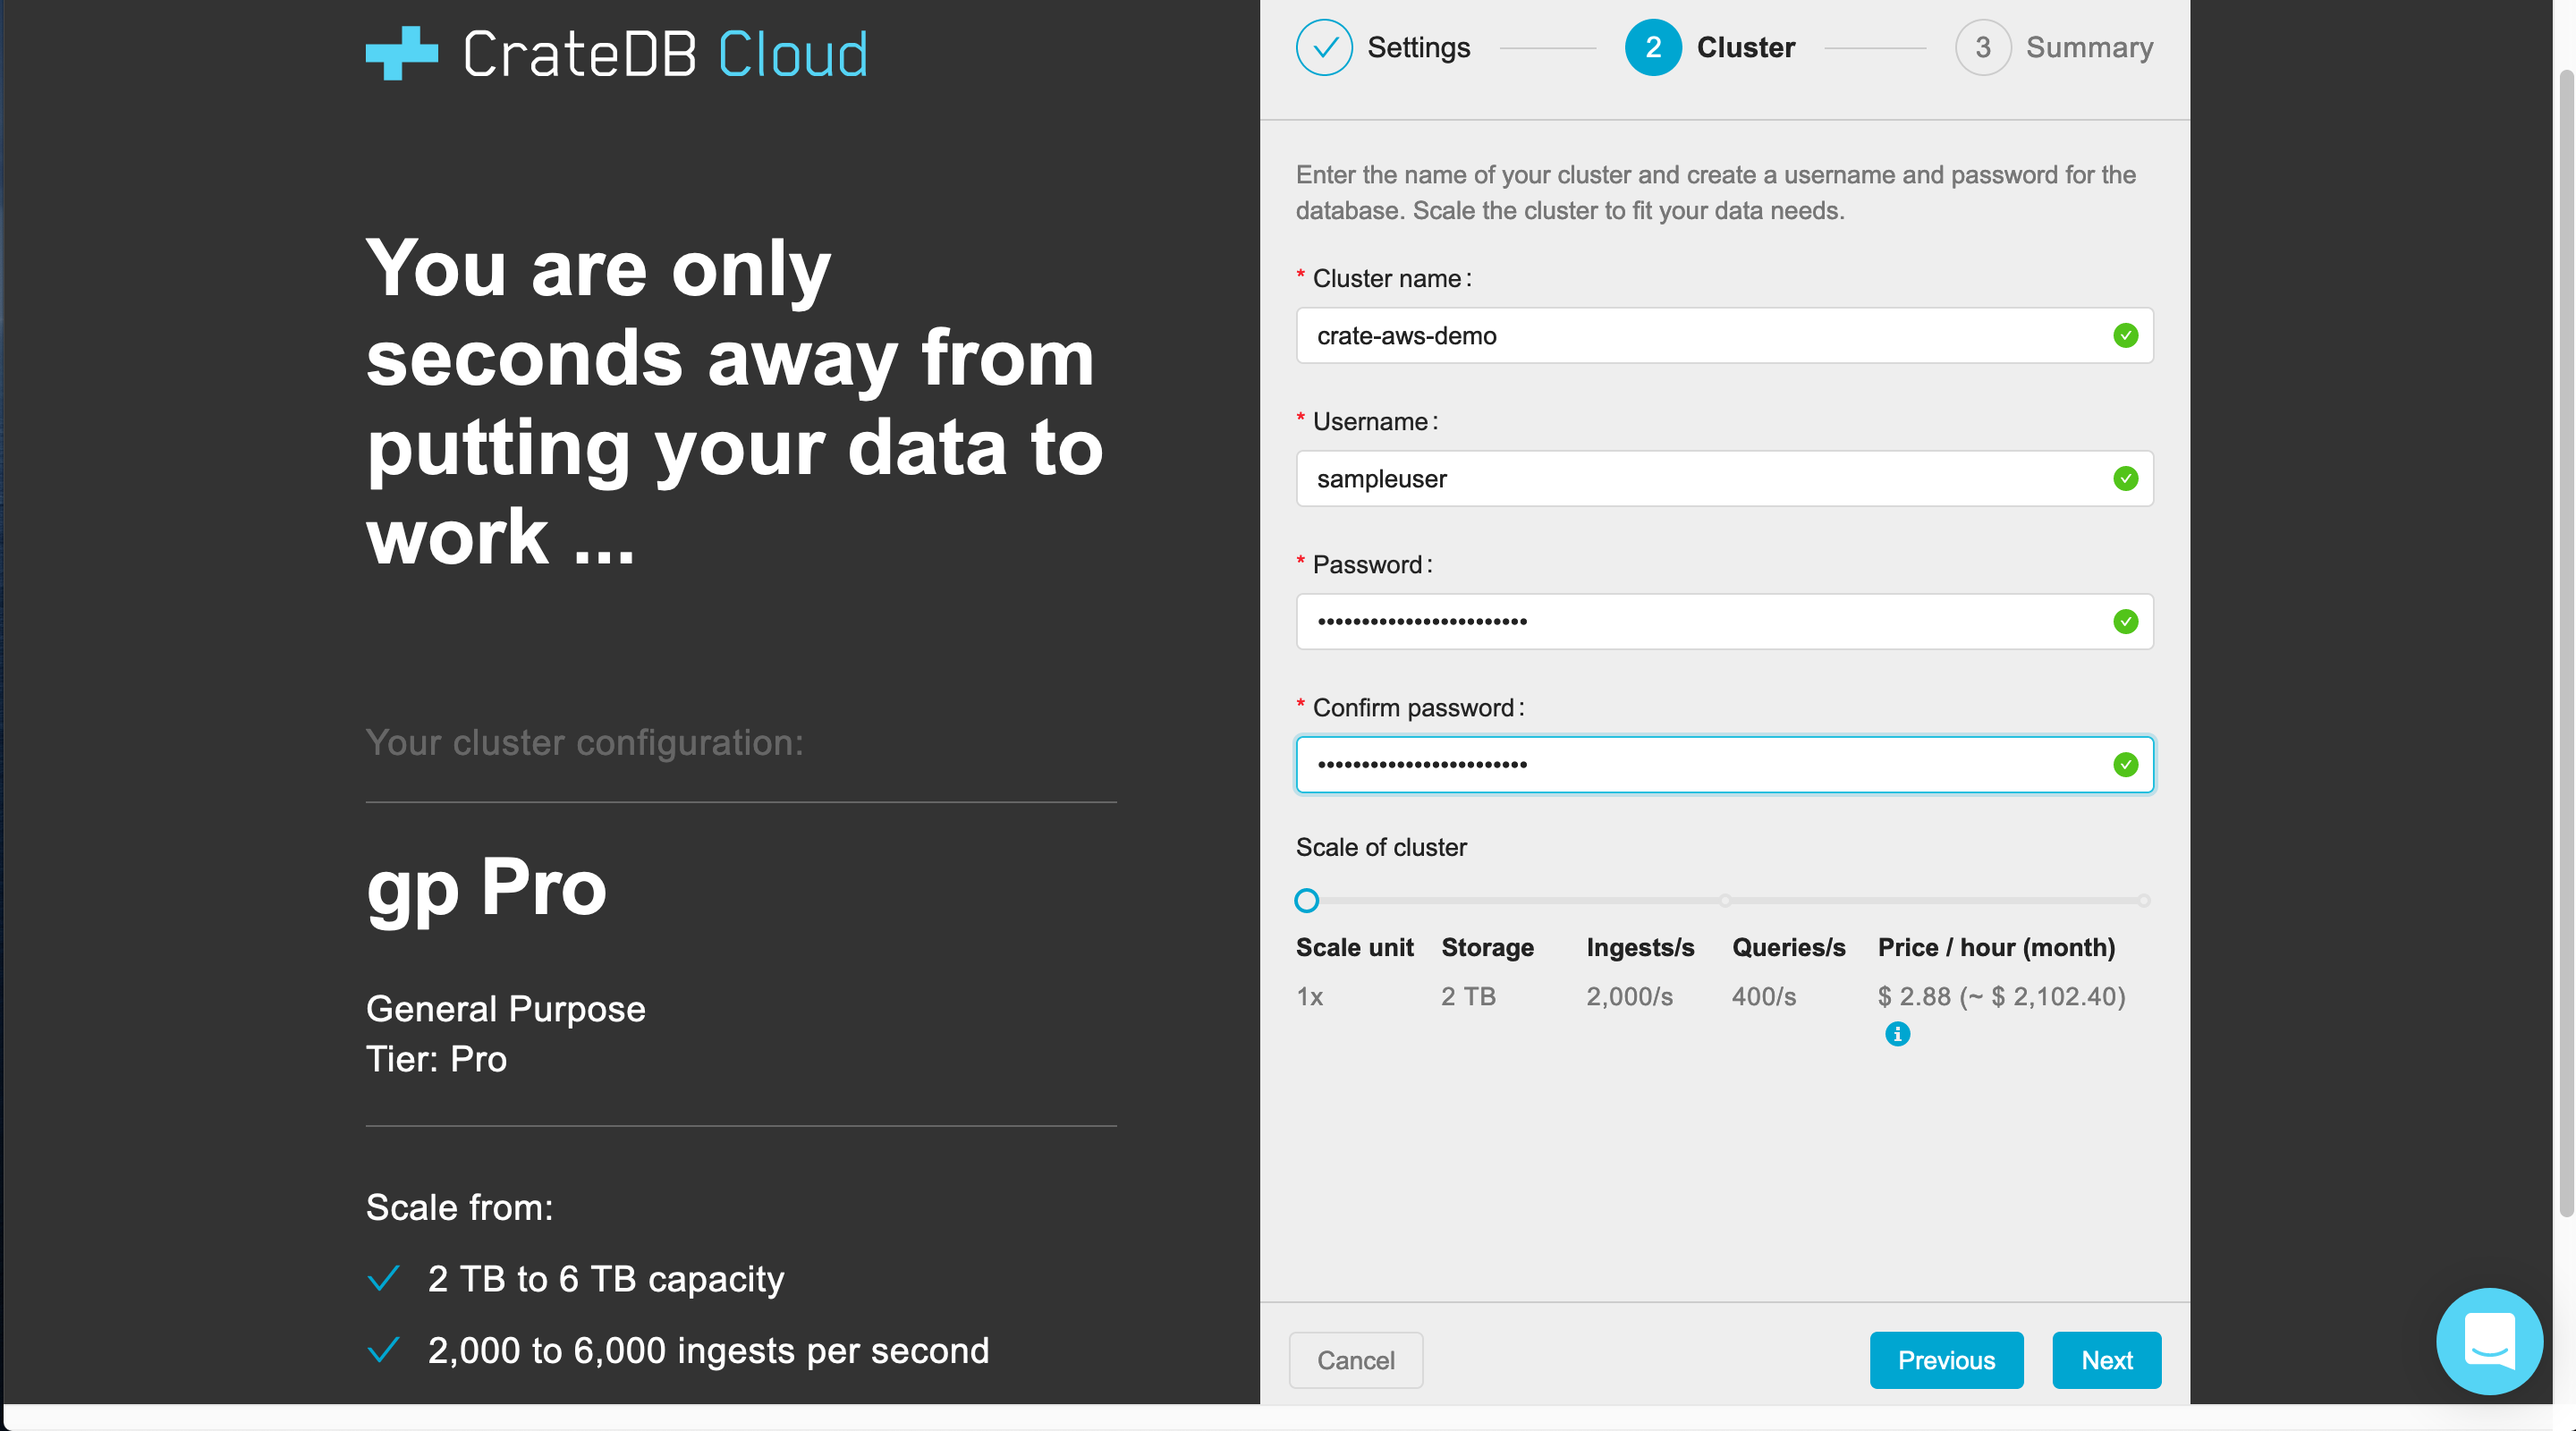
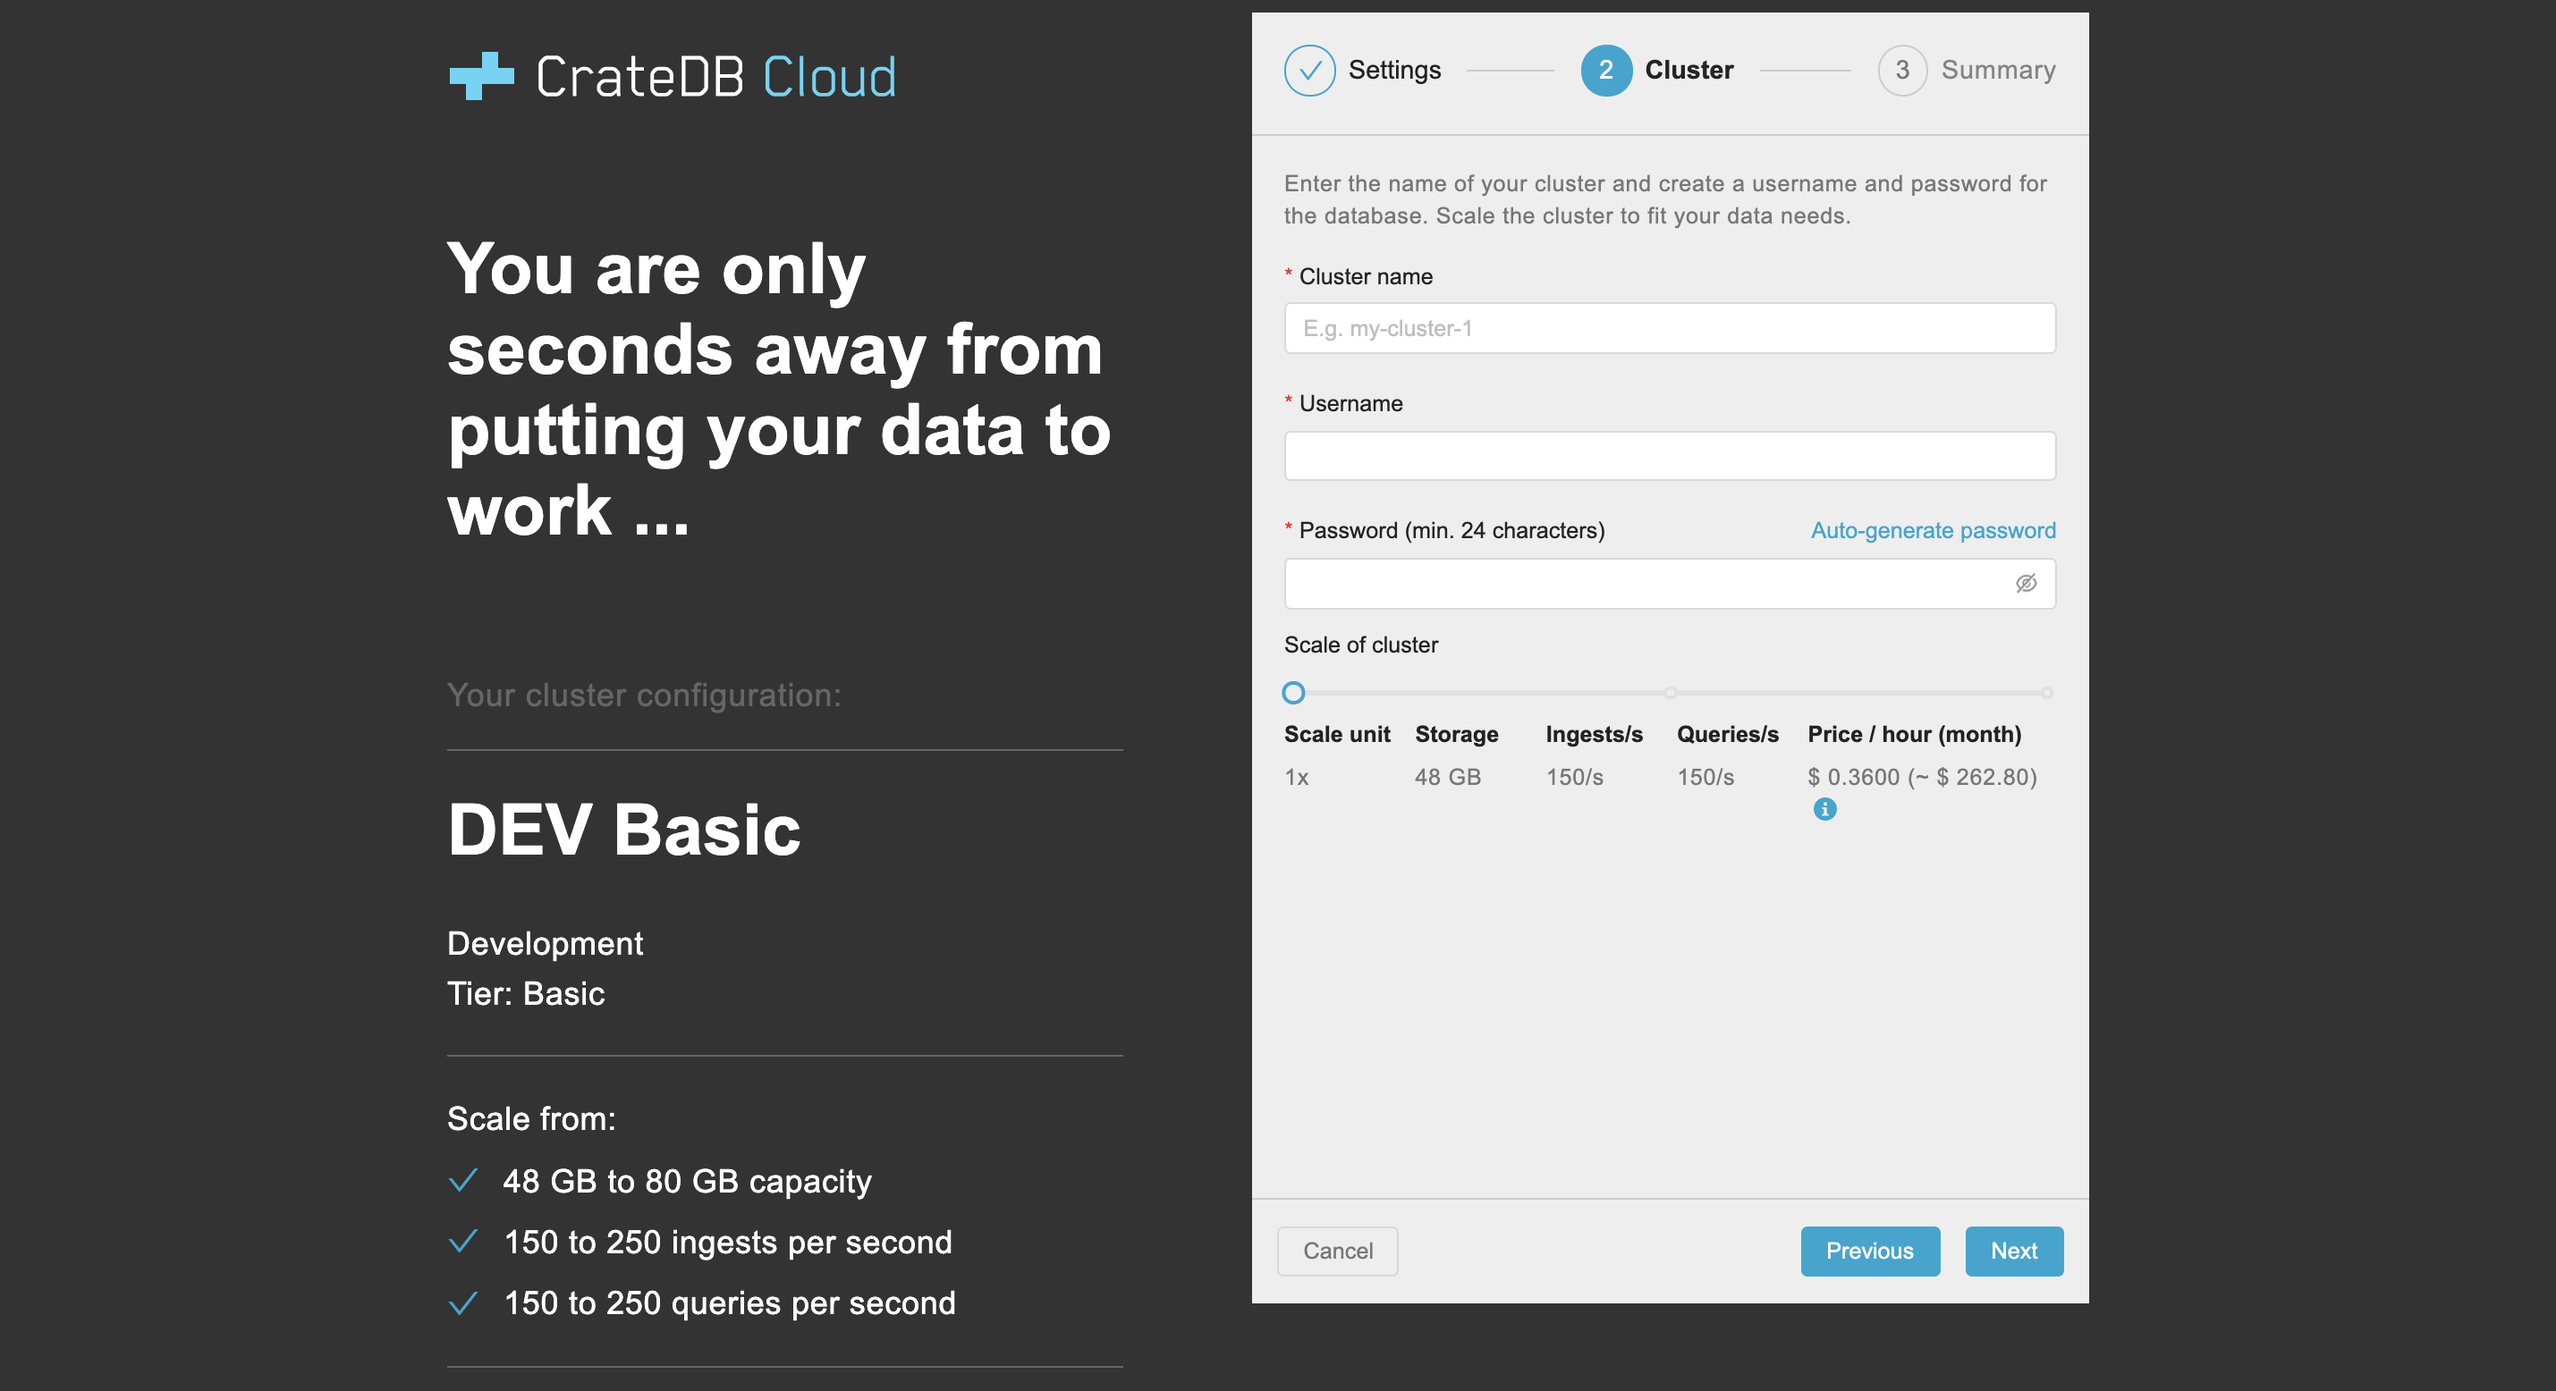
Refresh: update docs for password autogen and new Azure flow

diff --git a/docs/cluster-deployment/deploy-to-cluster-azure/configure-azure.rst b/docs/cluster-deployment/deploy-to-cluster-azure/configure-azure.rst
@@ -20,9 +20,10 @@ configuration wizard. Here we will walk you through the process.
 Configuration
 =============
 
-To deploy your cluster, first it must be configured. On the *Home > Software
-as a Service (SaaS)* page, go to *Overview*. Now click on *Configure Account*
-at the top left of the Overview page.
+To recap from the previous tutorial: to deploy your cluster, first it must be
+configured. If you have not yet done so, go to the Azure Portal's *Home >
+(SaaS)* page. Inside it, select the subscription you created. Now click on
+*Configure Account* on the Overview menu.
 
 .. image:: ../../_assets/img/configure-account.png
    :alt: Azure SaaS configuration screen
@@ -30,7 +31,9 @@ at the top left of the Overview page.
 You'll now be redirected to the CrateDB Cloud Console.
 
 Once in the Console, authenticate with the Azure account you used to create the
-offer in the previous step. Select *Sign in with Azure AD* and continue.
+offer in the previous step. (If you are authenticated with a different account,
+a warning message will appear, directing you to log out and to log in with your
+Azure account instead.) Select *Sign in with Azure AD* and continue.
 
 Now complete the three-step wizard to deploy the cluster.
 
@@ -48,14 +51,14 @@ done so. (If you have, it will be pre-selected for you.) You must also select a
 region for your project (within which the cluster will be deployed), and either
 name a new project or choose an existing one if you have one.
 
-.. image:: ../../_assets/img/wizard-step1.png
+.. image:: ../../_assets/img/azure-wizard-step1.png
    :alt: CrateDB Cloud configuration wizard step 1
 
 You may also notice a popup in the right bottom corner. This is to welcome you
-after your signup for CrateDB Cloud. In it, you will find a link to our help
-document on cluster deployment, which provides a quick summary of the same
-process described in this tutorial. If you want, you can also respond. This
-gets you in contact with the Crate.io team.
+after your signup to CrateDB Cloud. In it, you will find a link to our `help
+document on cluster deployment`_, which provides a quick summary of the same
+process described in this tutorial. If you want, you can also reply to it. This
+puts you in contact with the Crate.io team.
 
 Fill out the required lines and click *Next* to continue.
 
@@ -64,11 +67,19 @@ Wizard step 2
 -------------
 
 In the second step of the CrateDB Cloud Console configuration wizard, you can
-define your cluster name as well as the username and password used to directly
-access the cluster via its URL. The password must be at least 24 characters
-long.
+define your cluster name. You must also set the username and password used to
+directly access the cluster via its URL. The password must be at least 24
+characters long; any characters are accepted, including special characters. If
+you want, click the *Auto-generate password* button to automatically generate
+a secure 24 character password.
 
-.. image:: ../../_assets/img/wizard-step2.png
+.. WARNING::
+
+    The password will not be retrievable past this point. You may want to copy
+    the password from the password field into a secure location (e.g., a
+    password manager).
+
+.. image:: ../../_assets/img/azure-wizard-step2.png
    :alt: CrateDB Cloud configuration wizard step 2
 
 You can also already set the scale unit of the cluster to the level you want
@@ -98,7 +109,7 @@ Finally, the pricing information shows you the relevant costs of running the
 cluster. Note that Crate.io always bills for usage on an hourly basis, and only
 actual usage is ever billed.
 
-.. image:: ../../_assets/img/wizard-step3.png
+.. image:: ../../_assets/img/azure-wizard-step3.png
    :alt: CrateDB Cloud configuration wizard step 3
 
 Take a moment to review. If you are satisfied, click *Deploy*, and the cluster
@@ -123,5 +134,6 @@ can start using your cluster. For more information, visit `our Help page`_.
 
 
 .. _CrateDB Cloud Console: https://crate.io/docs/cloud/reference/en/latest/overview.html
+.. _help document on cluster deployment: http://help.crate.io/en/articles/3967131-how-do-i-deploy-a-cluster-via-the-azure-marketplace
 .. _our Help page: https://help.crate.io/en/articles/1771425-accessing-cratedb-s-admin-ui
 .. _reference: https://crate.io/docs/cloud/reference/en/latest/subscription-plans.html

diff --git a/docs/cluster-deployment/deploy-to-cluster-azure/signup-azure.rst b/docs/cluster-deployment/deploy-to-cluster-azure/signup-azure.rst
@@ -46,23 +46,33 @@ creating a subscription.
 The next page allows you to configure the subscription you have just chosen.
 First, name your subscription. Then choose a subscription type that should be
 billed for the total usage. All resources in a single Azure subscription are
-billed together.
+billed together. You can also define a resource group and its location here. A
+resource group is a set of resources with the same life cycle, permissions, and
+policies. For more information on these, refer to the `Azure documentation on
+resource groups`_. Optionally, you can also set tags for this resource. More
+information about tags can be found in the `Azure documentation on tags`_.
 
 .. image:: ../../_assets/img/subscribe-offer.png
    :alt: CrateDB Cloud on Azure subscription
 
-Once everything is set, click *Subscribe* in the bottom left corner.
+Once everything is set, click *Review + Subscribe* in the bottom left corner
+and accept the terms of use by clicking *Subscribe* again.
 
 Your offer with the desired subscription is now being created. This might
-take a few seconds. You'll see the progress in the Azure Portal's
-*Notifications* menu. Once the offer has been created you can access it either
-by clicking on the notification when it appears or by going to *Home >*
-*Software as a Service (SaaS)*.
+take a few seconds. You'll see the result in the Azure Portal's *Notifications*
+menu. Once the offer has been created you can access it either by clicking on
+the notification *Configure account now* when it appears.
 
-Select the service you just created. You will see an orange warning sign in the
-overview. This is because you first have to configure and deploy your cluster
-on CrateDB Cloud. Until this is done, the cluster will not be active and
-nothing will be billed.
+Alternatively, go to *Home > Software as a Service (SaaS)* and select the
+service you just created from the listing of subscriptions. (You may have to
+navigate via *SaaS (Classic)*, depending on whether you had Azure resources
+before Microsoft Azure changed their interface.) Possibly you will see an
+orange warning sign in the overview. This is because you first have to
+configure and deploy your cluster on CrateDB Cloud. Until this is done, the
+cluster will not be active and nothing will be billed.
+
+In either case, you will be referred to the CrateDB Cloud Console for further
+configuration.
 
 
 .. _signup-azure-to-cluster-next:
@@ -75,5 +85,7 @@ wizard and, finally, to deploy your cluster. This will be explained in the
 :ref:`next section of the tutorial <configure-azure-to-cluster>`.
 
 
+.. _Azure documentation on resource groups: https://docs.microsoft.com/en-us/azure/azure-resource-manager/management/manage-resource-groups-portal
+.. _Azure documentation on tags: https://docs.microsoft.com/en-us/azure/azure-resource-manager/management/tag-resources
 .. _Azure Marketplace: https://azuremarketplace.microsoft.com/en-us/marketplace/apps/crate.cratedbcloud?tab=Overview
 .. _documentation on subscription plans: https://crate.io/docs/cloud/reference/en/latest/subscription-plans.html

diff --git a/docs/cluster-deployment/deploy-to-cluster-aws/configure-aws.rst b/docs/cluster-deployment/deploy-to-cluster-aws/configure-aws.rst
@@ -91,9 +91,17 @@ Wizard step 2
 -------------
 
 In the second step of the CrateDB Cloud Console configuration wizard, you can
-define your cluster name as well as the username and password used to directly
-access the cluster via its URL. The password must be at least 24 characters
-long.
+define your cluster name. You must also set the username and password used to
+directly access the cluster via its URL. The password must be at least 24
+characters long; any characters are accepted, including special characters. If
+you want, click the *Auto-generate password* button to automatically generate
+a secure 24 character password.
+
+.. WARNING::
+
+    The password will not be retrievable past this point. You may want to copy
+    the password from the password field into a secure location (e.g., a
+    password manager).
 
 .. image:: ../../_assets/img/aws-wizard-step2.png
    :alt: CrateDB Cloud configuration wizard step 2
